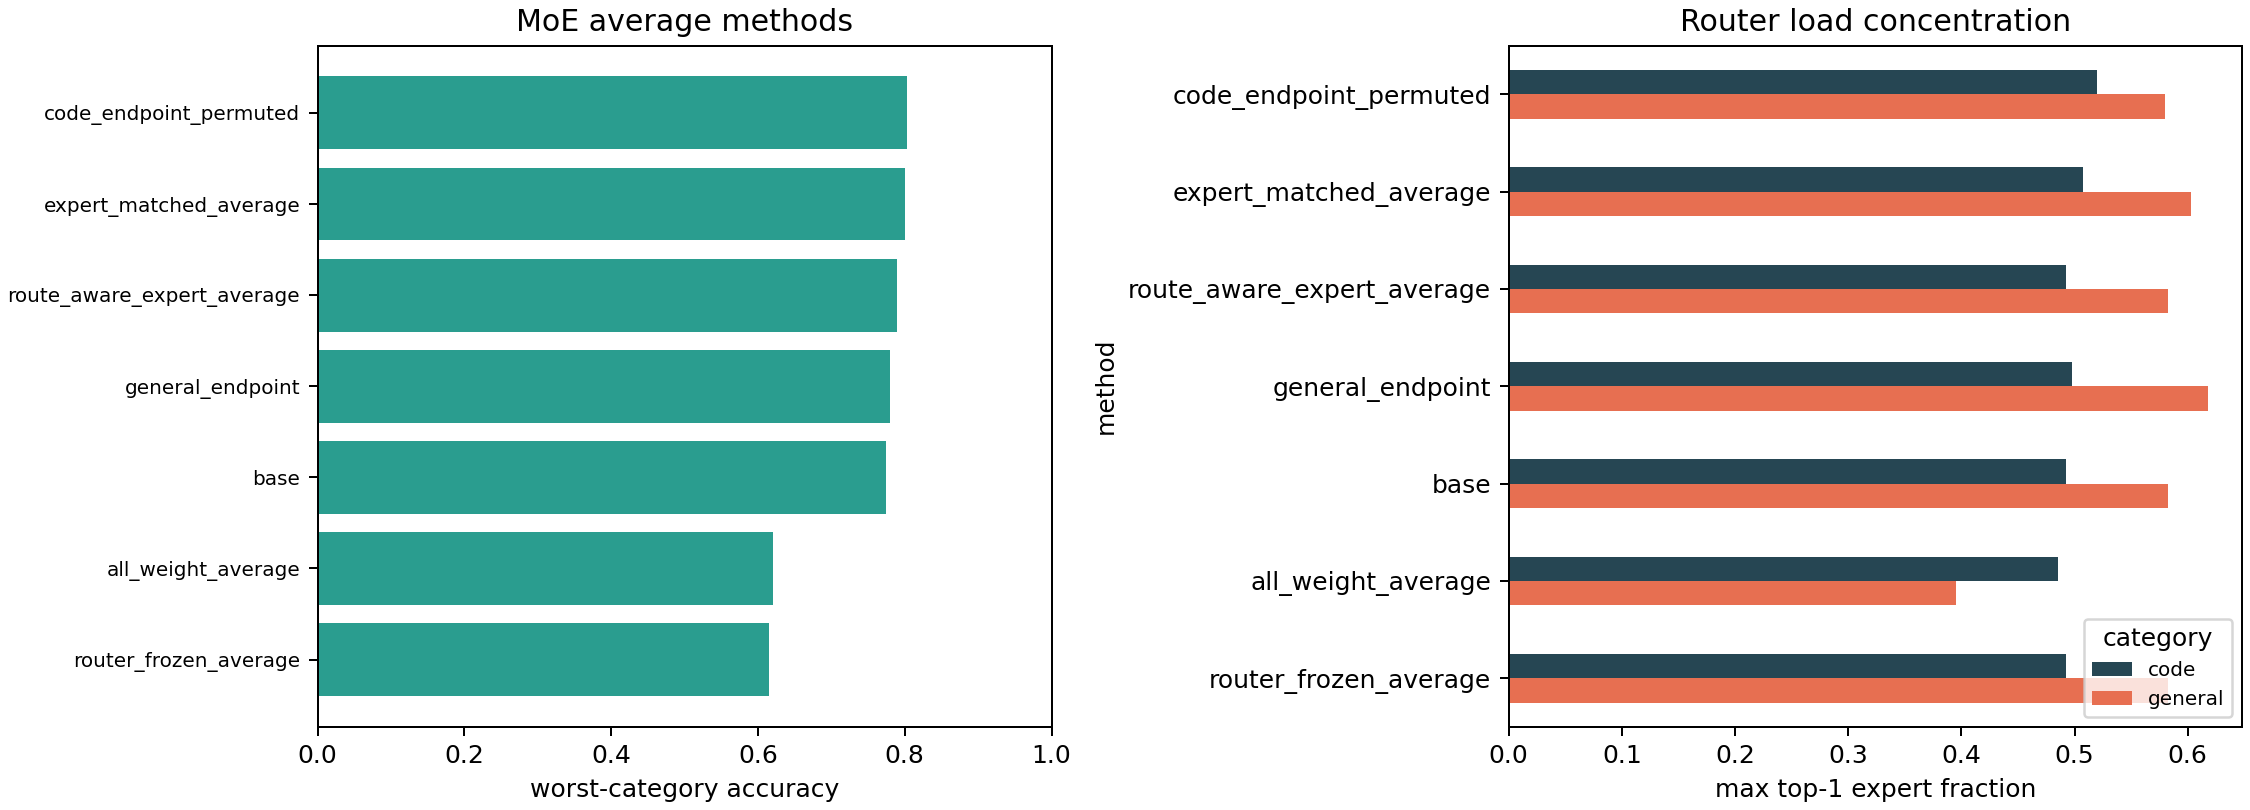
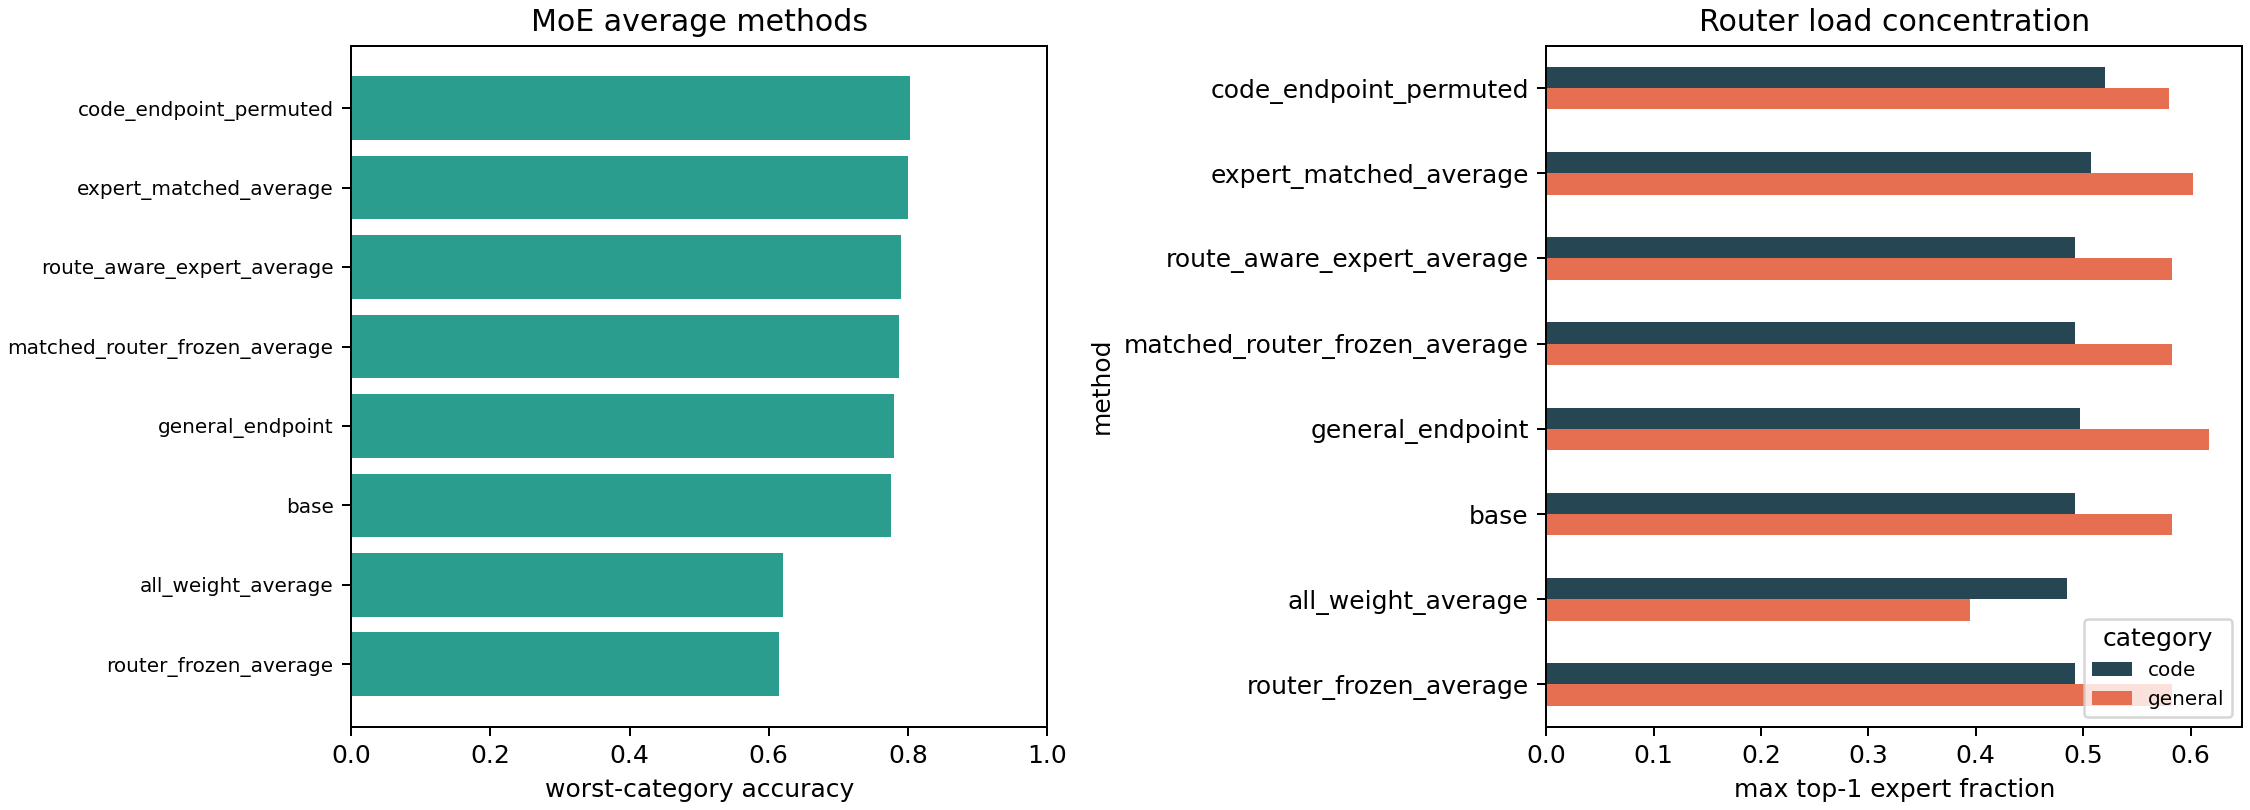
Add matched router-frozen MoE merge variant

diff --git a/scripts/run_toy_moe_merge.py b/scripts/run_toy_moe_merge.py
@@ -481,6 +481,7 @@ def write_report(out_dir: Path, summary: dict[str, Any], method_metrics: pd.Data
     best = method_metrics.sort_values(["worst_acc", "avg_acc"], ascending=False).iloc[0]
     all_avg = method_metrics[method_metrics["method"] == "all_weight_average"].iloc[0]
     matched = method_metrics[method_metrics["method"] == "expert_matched_average"].iloc[0]
+    matched_router_frozen = method_metrics[method_metrics["method"] == "matched_router_frozen_average"].iloc[0]
     route_aware = method_metrics[method_metrics["method"] == "route_aware_expert_average"].iloc[0]
     lines = [
         "# Toy MoE Route-Aware Merge",
@@ -494,6 +495,7 @@ def write_report(out_dir: Path, summary: dict[str, Any], method_metrics: pd.Data
         f"- Best method by worst accuracy: `{best['method']}` = `{best['worst_acc']:.3f}`.",
         f"- All-weight average worst accuracy: `{all_avg['worst_acc']:.3f}`.",
         f"- Expert-matched average worst accuracy: `{matched['worst_acc']:.3f}`.",
+        f"- Matched + router-frozen average worst accuracy: `{matched_router_frozen['worst_acc']:.3f}`.",
         f"- Route-aware expert average worst accuracy: `{route_aware['worst_acc']:.3f}`.",
         f"- Recovered expert matching mean cosine: `{summary['expert_match_mean_cosine']:.3f}`.",
         f"- Code source permutation: `{summary['code_source_permutation']}`.",
@@ -515,6 +517,7 @@ def write_report(out_dir: Path, summary: dict[str, Any], method_metrics: pd.Data
             "",
             "- `all_weight_average` 是朴素 baseline：router 和 expert tensors 都按同名 index 平均，因此在 expert permutation 后会暴露 MoE index-alignment 风险。",
             "- `expert_matched_average` 先用 unlabeled calibration input 的 expert-output cosine 做 Hungarian matching，再平均；这对应 Sub-MoE / Expert Merging 里强调的 function-aware expert alignment。",
+            "- `matched_router_frozen_average` 直接验证 MoE 特有假设：先对齐 expert 功能，再固定 token-to-expert dispatch，只平均非 router 权重。",
             "- `route_aware_expert_average` 冻结 base router，并按 base router 在 general/code prompt 上的 route mass 给每个 expert 设置 source delta 权重；这对应 route-weight recipes 的 toy 版本。",
             "- 这个实验不是 Qwen3 结果，但它把 MoE merging 的特质从报告落成了可跑的 probe：expert index、router overlap、expert load 和 category route mass 都会影响 average 是否安全。",
             "",
@@ -620,6 +623,10 @@ def main() -> None:
         if name.startswith("router."):
             router_frozen[name] = base_state[name].clone()
     expert_matched = task_vector_average(base_state, [general_state, matched_code_state], [0.5, 0.5])
+    matched_router_frozen = {name: value.clone() for name, value in expert_matched.items()}
+    for name in matched_router_frozen:
+        if name.startswith("router."):
+            matched_router_frozen[name] = base_state[name].clone()
 
     methods = [
         MethodState("base", base_state, "mixed-task base before fine-tuning"),
@@ -628,6 +635,11 @@ def main() -> None:
         MethodState("all_weight_average", all_average, "average same-name router and expert tensors without expert matching"),
         MethodState("router_frozen_average", router_frozen, "all-weight average but router tensors reset to base"),
         MethodState("expert_matched_average", expert_matched, "align code experts to general source by output cosine before averaging"),
+        MethodState(
+            "matched_router_frozen_average",
+            matched_router_frozen,
+            "align code experts by output cosine and keep the base router fixed",
+        ),
         MethodState("route_aware_expert_average", route_aware, "freeze base router and use route-frequency expert source weights"),
     ]
 
@@ -676,6 +688,7 @@ def main() -> None:
 
     best = method_metrics.sort_values(["worst_acc", "avg_acc"], ascending=False).iloc[0]
     all_avg = method_metrics[method_metrics["method"] == "all_weight_average"].iloc[0]
+    matched_router_frozen_row = method_metrics[method_metrics["method"] == "matched_router_frozen_average"].iloc[0]
     route_aware_row = method_metrics[method_metrics["method"] == "route_aware_expert_average"].iloc[0]
     summary = {
         "schema_version": 1,
@@ -686,6 +699,10 @@ def main() -> None:
         "best_method": str(best["method"]),
         "best_worst_acc": float(best["worst_acc"]),
         "all_weight_average_worst_acc": float(all_avg["worst_acc"]),
+        "matched_router_frozen_worst_acc": float(matched_router_frozen_row["worst_acc"]),
+        "matched_router_frozen_minus_all_weight_worst_acc": float(
+            matched_router_frozen_row["worst_acc"] - all_avg["worst_acc"]
+        ),
         "route_aware_worst_acc": float(route_aware_row["worst_acc"]),
         "route_aware_minus_all_weight_worst_acc": float(route_aware_row["worst_acc"] - all_avg["worst_acc"]),
         "same_shape_constraint": "All methods keep the same TinyMoEClassifier architecture, expert count, router shape, and output classes.",

diff --git a/scripts/collect_results.py b/scripts/collect_results.py
@@ -540,7 +540,11 @@ def summarize_toy_moe_merge() -> dict[str, Any]:
         "best_method": find_method(methods, summary["best_method"]),
         "all_weight_average": find_method(methods, "all_weight_average"),
         "expert_matched_average": find_method(methods, "expert_matched_average"),
+        "matched_router_frozen_average": find_method(methods, "matched_router_frozen_average"),
         "route_aware_expert_average": find_method(methods, "route_aware_expert_average"),
+        "matched_router_frozen_minus_all_weight_worst_acc": float(
+            summary.get("matched_router_frozen_minus_all_weight_worst_acc", 0.0)
+        ),
         "route_aware_minus_all_weight_worst_acc": float(summary["route_aware_minus_all_weight_worst_acc"]),
         "expert_match_mean_cosine": float(expert_match["output_cosine"].mean()),
         "router_rows": int(len(router_summary)),
@@ -1084,8 +1088,16 @@ def build_markdown(summary: dict[str, Any]) -> str:
                 f"{fmt(toy_moe['expert_matched_average']['worst_acc'])} |"
             ),
             (
+                "| toy MoE route-aware merge | matched + router-frozen worst accuracy | "
+                f"{fmt(toy_moe['matched_router_frozen_average']['worst_acc'])} |"
+            ),
+            (
                 "| toy MoE route-aware merge | route-aware average worst accuracy | "
                 f"{fmt(toy_moe['route_aware_expert_average']['worst_acc'])} |"
+            ),
+            (
+                "| toy MoE route-aware merge | matched + router-frozen minus all-weight worst accuracy | "
+                f"{fmt(toy_moe['matched_router_frozen_minus_all_weight_worst_acc'])} |"
             ),
             (
                 "| toy MoE route-aware merge | route-aware minus all-weight worst accuracy | "

diff --git a/results/toy_moe_routing_readiness/report.md b/results/toy_moe_routing_readiness/report.md
@@ -4,32 +4,34 @@
 
 - Readiness status: `high_risk_calibrate_router_before_merge`
 - Router dirs: `results/toy_moe_merge`
-- Router rows: `14`；expert rows: `56`；specialization rows: `28`
+- Router rows: `16`；expert rows: `64`；specialization rows: `32`
 
 ## Router Readiness
 
-Router action counts: `{"freeze_router_and_check_load_balance": 6, "router_probe_passed_for_small_lambda": 5, "calibrate_router_before_average": 3}`
+Router action counts: `{"freeze_router_and_check_load_balance": 7, "router_probe_passed_for_small_lambda": 6, "calibrate_router_before_average": 3}`
 
 | method | router | category | max top1 | effective fraction | top-k Jaccard | risk flags | action |
 | --- | --- | --- | ---: | ---: | ---: | --- | --- |
-| code_endpoint_permuted | toy_router | general | 0.58 | 0.6621 | 0.2042 | top1_load_concentration|low_topk_route_overlap|low_top1_route_agreement | `calibrate_router_before_average` |
 | code_endpoint_permuted | toy_router | code | 0.52 | 0.6331 | 0.2933 | top1_load_concentration|low_topk_route_overlap|low_top1_route_agreement | `calibrate_router_before_average` |
+| code_endpoint_permuted | toy_router | general | 0.58 | 0.6621 | 0.2042 | top1_load_concentration|low_topk_route_overlap|low_top1_route_agreement | `calibrate_router_before_average` |
 | all_weight_average | toy_router | general | 0.395 | 0.8493 | 0.4883 | low_topk_route_overlap|low_top1_route_agreement | `calibrate_router_before_average` |
-| general_endpoint | toy_router | general | 0.6175 | 0.6302 | 0.985 | top1_load_concentration | `freeze_router_and_check_load_balance` |
-| router_frozen_average | toy_router | general | 0.5825 | 0.6623 | 1 | top1_load_concentration | `freeze_router_and_check_load_balance` |
 | base | toy_router | general | 0.5825 | 0.6623 | n/a | top1_load_concentration | `freeze_router_and_check_load_balance` |
-| route_aware_expert_average | toy_router | general | 0.5825 | 0.6623 | 1 | top1_load_concentration | `freeze_router_and_check_load_balance` |
-| expert_matched_average | toy_router | general | 0.6025 | 0.6484 | 0.9817 | top1_load_concentration | `freeze_router_and_check_load_balance` |
+| general_endpoint | toy_router | general | 0.6175 | 0.6302 | 0.985 | top1_load_concentration | `freeze_router_and_check_load_balance` |
 | expert_matched_average | toy_router | code | 0.5075 | 0.6037 | 0.98 | top1_load_concentration | `freeze_router_and_check_load_balance` |
+| expert_matched_average | toy_router | general | 0.6025 | 0.6484 | 0.9817 | top1_load_concentration | `freeze_router_and_check_load_balance` |
+| router_frozen_average | toy_router | general | 0.5825 | 0.6623 | 1 | top1_load_concentration | `freeze_router_and_check_load_balance` |
+| route_aware_expert_average | toy_router | general | 0.5825 | 0.6623 | 1 | top1_load_concentration | `freeze_router_and_check_load_balance` |
+| matched_router_frozen_average | toy_router | general | 0.5825 | 0.6623 | 1 | top1_load_concentration | `freeze_router_and_check_load_balance` |
 | base | toy_router | code | 0.4925 | 0.5911 | n/a | none | `router_probe_passed_for_small_lambda` |
 | general_endpoint | toy_router | code | 0.4975 | 0.5798 | 0.965 | none | `router_probe_passed_for_small_lambda` |
 | all_weight_average | toy_router | code | 0.485 | 0.7326 | 0.6467 | none | `router_probe_passed_for_small_lambda` |
 | router_frozen_average | toy_router | code | 0.4925 | 0.5911 | 1 | none | `router_probe_passed_for_small_lambda` |
+| matched_router_frozen_average | toy_router | code | 0.4925 | 0.5911 | 1 | none | `router_probe_passed_for_small_lambda` |
 | route_aware_expert_average | toy_router | code | 0.4925 | 0.5911 | 1 | none | `router_probe_passed_for_small_lambda` |
 
 ## Expert Load Risks
 
-Expert action counts: `{"low_lambda_or_route_frequency_average": 56}`
+Expert action counts: `{"low_lambda_or_route_frequency_average": 64}`
 
 | method | router | category | expert | top-k over uniform | flags | action |
 | --- | --- | --- | ---: | ---: | --- | --- |
@@ -37,32 +39,33 @@ Expert action counts: `{"low_lambda_or_route_frequency_average": 56}`
 | code_endpoint_permuted | toy_router | general | 1 | 1.45 | none | `low_lambda_or_route_frequency_average` |
 | expert_matched_average | toy_router | general | 0 | 1.45 | none | `low_lambda_or_route_frequency_average` |
 | general_endpoint | toy_router | general | 0 | 1.445 | none | `low_lambda_or_route_frequency_average` |
-| router_frozen_average | toy_router | general | 0 | 1.425 | none | `low_lambda_or_route_frequency_average` |
+| matched_router_frozen_average | toy_router | general | 0 | 1.425 | none | `low_lambda_or_route_frequency_average` |
 | route_aware_expert_average | toy_router | general | 0 | 1.425 | none | `low_lambda_or_route_frequency_average` |
+| router_frozen_average | toy_router | general | 0 | 1.425 | none | `low_lambda_or_route_frequency_average` |
 | base | toy_router | general | 0 | 1.425 | none | `low_lambda_or_route_frequency_average` |
 | code_endpoint_permuted | toy_router | code | 2 | 1.365 | none | `low_lambda_or_route_frequency_average` |
 | all_weight_average | toy_router | general | 0 | 1.36 | none | `low_lambda_or_route_frequency_average` |
+| matched_router_frozen_average | toy_router | code | 3 | 1.35 | none | `low_lambda_or_route_frequency_average` |
+| matched_router_frozen_average | toy_router | general | 3 | 1.35 | none | `low_lambda_or_route_frequency_average` |
 | router_frozen_average | toy_router | general | 3 | 1.35 | none | `low_lambda_or_route_frequency_average` |
-| route_aware_expert_average | toy_router | general | 3 | 1.35 | none | `low_lambda_or_route_frequency_average` |
 | router_frozen_average | toy_router | code | 3 | 1.35 | none | `low_lambda_or_route_frequency_average` |
 | base | toy_router | code | 3 | 1.35 | none | `low_lambda_or_route_frequency_average` |
 | base | toy_router | general | 3 | 1.35 | none | `low_lambda_or_route_frequency_average` |
+| route_aware_expert_average | toy_router | general | 3 | 1.35 | none | `low_lambda_or_route_frequency_average` |
 | route_aware_expert_average | toy_router | code | 3 | 1.35 | none | `low_lambda_or_route_frequency_average` |
 | code_endpoint_permuted | toy_router | general | 2 | 1.34 | none | `low_lambda_or_route_frequency_average` |
-| expert_matched_average | toy_router | code | 3 | 1.335 | none | `low_lambda_or_route_frequency_average` |
 | expert_matched_average | toy_router | general | 3 | 1.335 | none | `low_lambda_or_route_frequency_average` |
-| general_endpoint | toy_router | general | 3 | 1.325 | none | `low_lambda_or_route_frequency_average` |
-| all_weight_average | toy_router | code | 2 | 1.285 | none | `low_lambda_or_route_frequency_average` |
 
 ## Category Specialization
 
-Specialization action counts: `{"shared_or_mixed_expert": 20, "category_specialized_route_weight": 8}`
+Specialization action counts: `{"shared_or_mixed_expert": 23, "category_specialized_route_weight": 9}`
 
 | method | router | expert | dominant category | share | action |
 | --- | --- | ---: | --- | ---: | --- |
 | all_weight_average | toy_router | 0 | general | 0.8071 | `category_specialized_route_weight` |
 | base | toy_router | 0 | general | 0.7983 | `category_specialized_route_weight` |
 | route_aware_expert_average | toy_router | 0 | general | 0.7983 | `category_specialized_route_weight` |
+| matched_router_frozen_average | toy_router | 0 | general | 0.7983 | `category_specialized_route_weight` |
 | router_frozen_average | toy_router | 0 | general | 0.7983 | `category_specialized_route_weight` |
 | expert_matched_average | toy_router | 0 | general | 0.788 | `category_specialized_route_weight` |
 | general_endpoint | toy_router | 0 | general | 0.7853 | `category_specialized_route_weight` |
@@ -70,16 +73,15 @@ Specialization action counts: `{"shared_or_mixed_expert": 20, "category_speciali
 | all_weight_average | toy_router | 3 | code | 0.722 | `category_specialized_route_weight` |
 | general_endpoint | toy_router | 2 | code | 0.6603 | `shared_or_mixed_expert` |
 | expert_matched_average | toy_router | 2 | code | 0.6582 | `shared_or_mixed_expert` |
-| base | toy_router | 2 | code | 0.6546 | `shared_or_mixed_expert` |
-| route_aware_expert_average | toy_router | 2 | code | 0.6546 | `shared_or_mixed_expert` |
 | router_frozen_average | toy_router | 2 | code | 0.6546 | `shared_or_mixed_expert` |
+| matched_router_frozen_average | toy_router | 2 | code | 0.6546 | `shared_or_mixed_expert` |
+| route_aware_expert_average | toy_router | 2 | code | 0.6546 | `shared_or_mixed_expert` |
+| base | toy_router | 2 | code | 0.6546 | `shared_or_mixed_expert` |
 | code_endpoint_permuted | toy_router | 0 | code | 0.6519 | `shared_or_mixed_expert` |
 | router_frozen_average | toy_router | 1 | code | 0.6483 | `shared_or_mixed_expert` |
 | route_aware_expert_average | toy_router | 1 | code | 0.6483 | `shared_or_mixed_expert` |
+| matched_router_frozen_average | toy_router | 1 | code | 0.6483 | `shared_or_mixed_expert` |
 | base | toy_router | 1 | code | 0.6483 | `shared_or_mixed_expert` |
-| general_endpoint | toy_router | 1 | code | 0.6472 | `shared_or_mixed_expert` |
-| code_endpoint_permuted | toy_router | 3 | code | 0.6457 | `shared_or_mixed_expert` |
-| expert_matched_average | toy_router | 1 | code | 0.6453 | `shared_or_mixed_expert` |
 
 ## 规则依据
 

diff --git a/results/summary.md b/results/summary.md
@@ -1,6 +1,6 @@
 # Result Summary
 
-Generated at: `2026-06-19T09:13:31.558390+00:00`
+Generated at: `2026-06-19T09:28:55.552243+00:00`
 
 ## Coverage
 
@@ -70,7 +70,9 @@ Complete: `29`; partial: `0`; missing: `0`.
 | Qwen multi-expert | instruct/coder weighted conflict | 0.386 |
 | toy MoE route-aware merge | all-weight average worst accuracy | 0.620 |
 | toy MoE route-aware merge | expert-matched average worst accuracy | 0.800 |
+| toy MoE route-aware merge | matched + router-frozen worst accuracy | 0.787 |
 | toy MoE route-aware merge | route-aware average worst accuracy | 0.790 |
+| toy MoE route-aware merge | matched + router-frozen minus all-weight worst accuracy | 0.167 |
 | toy MoE route-aware merge | route-aware minus all-weight worst accuracy | 0.170 |
 | toy MoE routing readiness | readiness status | high_risk_calibrate_router_before_merge |
 | toy MoE routing readiness | all-weight calibrate-router flags | 1 |

diff --git a/results/toy_moe_merge/report.md b/results/toy_moe_merge/report.md
@@ -9,6 +9,7 @@
 - Best method by worst accuracy: `code_endpoint_permuted` = `0.802`.
 - All-weight average worst accuracy: `0.620`.
 - Expert-matched average worst accuracy: `0.800`.
+- Matched + router-frozen average worst accuracy: `0.787`.
 - Route-aware expert average worst accuracy: `0.790`.
 - Recovered expert matching mean cosine: `0.977`.
 - Code source permutation: `[2, 0, 3, 1]`.
@@ -20,6 +21,7 @@
 | code_endpoint_permuted | 0.818 | 0.802 | 0.802 | 0.618 |
 | expert_matched_average | 0.818 | 0.800 | 0.800 | 0.616 |
 | route_aware_expert_average | 0.807 | 0.790 | 0.790 | 0.620 |
+| matched_router_frozen_average | 0.815 | 0.787 | 0.787 | 0.619 |
 | general_endpoint | 0.812 | 0.780 | 0.780 | 0.615 |
 | base | 0.797 | 0.775 | 0.775 | 0.628 |
 | all_weight_average | 0.688 | 0.620 | 0.620 | 0.663 |
@@ -29,6 +31,7 @@
 
 - `all_weight_average` 是朴素 baseline：router 和 expert tensors 都按同名 index 平均，因此在 expert permutation 后会暴露 MoE index-alignment 风险。
 - `expert_matched_average` 先用 unlabeled calibration input 的 expert-output cosine 做 Hungarian matching，再平均；这对应 Sub-MoE / Expert Merging 里强调的 function-aware expert alignment。
+- `matched_router_frozen_average` 直接验证 MoE 特有假设：先对齐 expert 功能，再固定 token-to-expert dispatch，只平均非 router 权重。
 - `route_aware_expert_average` 冻结 base router，并按 base router 在 general/code prompt 上的 route mass 给每个 expert 设置 source delta 权重；这对应 route-weight recipes 的 toy 版本。
 - 这个实验不是 Qwen3 结果，但它把 MoE merging 的特质从报告落成了可跑的 probe：expert index、router overlap、expert load 和 category route mass 都会影响 average 是否安全。
 

diff --git a/results/toy_moe_method_selection/report.md b/results/toy_moe_method_selection/report.md
@@ -12,6 +12,7 @@
 | --- | --- | ---: | ---: | ---: | ---: | --- |
 | expert_matched_average | merge_candidate | 0.800 | 0.809 | 0 | 0.98 | `candidate_with_router_guard` |
 | route_aware_expert_average | merge_candidate | 0.790 | 0.799 | 0 | 1 | `candidate_with_router_guard` |
+| matched_router_frozen_average | merge_candidate | 0.787 | 0.801 | 0 | 1 | `candidate_with_router_guard` |
 | router_frozen_average | merge_candidate | 0.615 | 0.652 | 0 | 1 | `reject_underperforms_base` |
 | general_endpoint | endpoint_baseline | 0.780 | 0.796 | 0 | 0.965 | `baseline_only` |
 | code_endpoint_permuted | endpoint_baseline | 0.802 | 0.810 | 2 | 0.2042 | `baseline_only` |